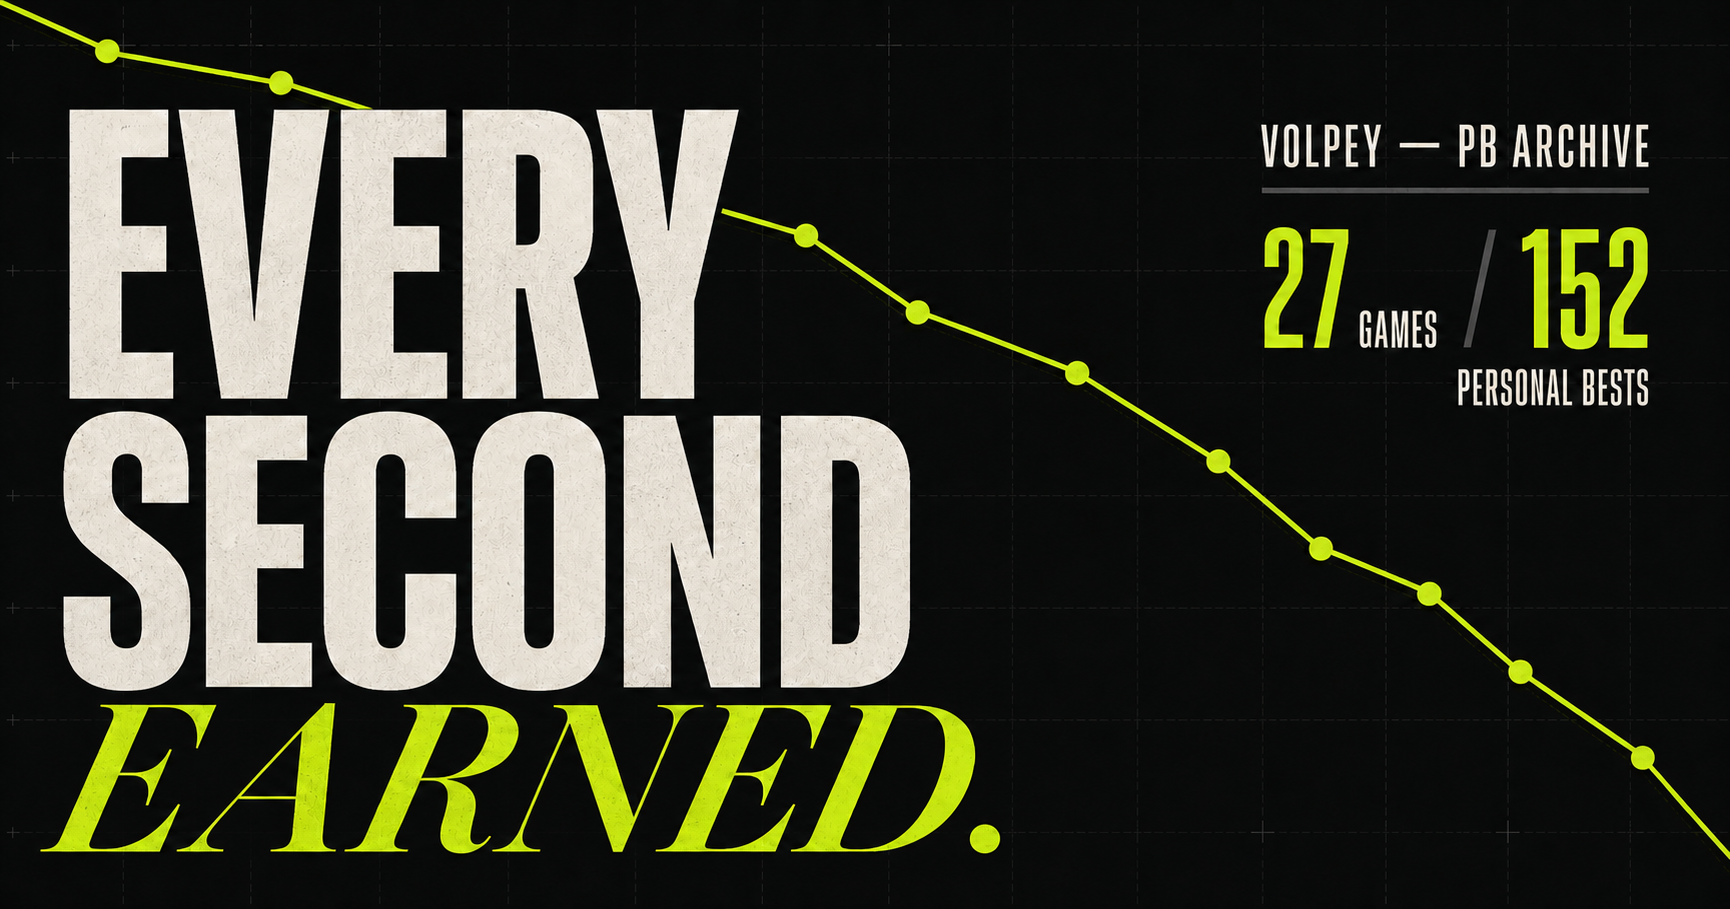
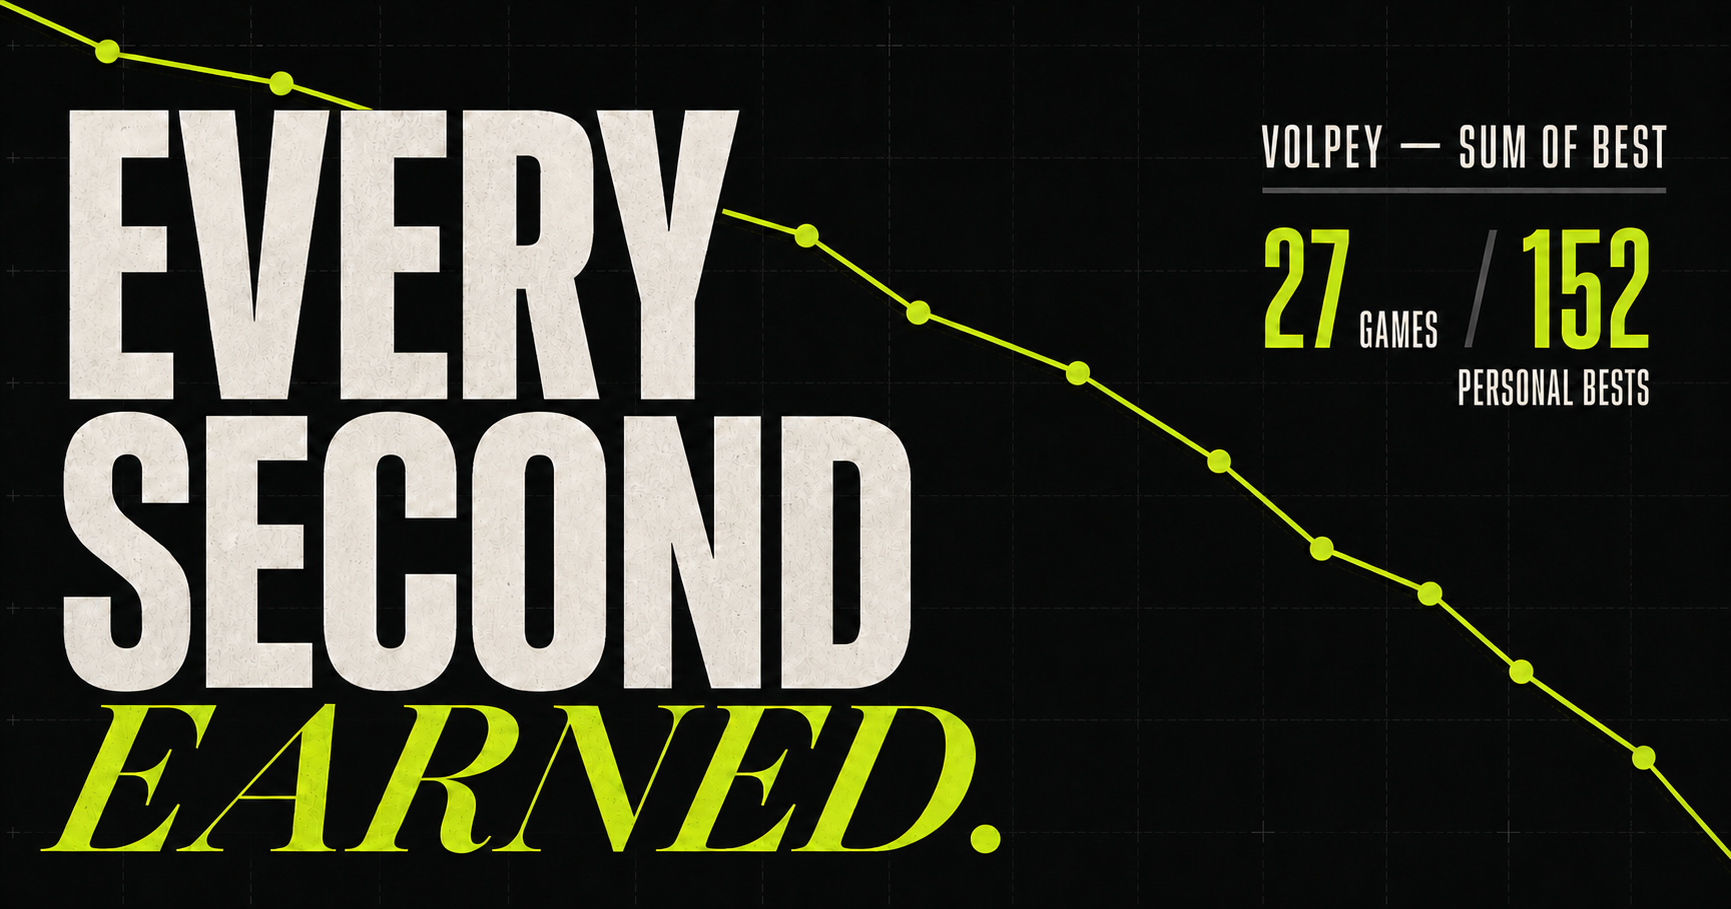
Rename project to Sum of Best

diff --git a/app/pb-history.tsx b/app/pb-history.tsx
@@ -520,9 +520,9 @@ function LevelCollection({
       }
     }
 
-    window.addEventListener("pbarchive:select-run", selectRunHistory);
+    window.addEventListener("sumofbest:select-run", selectRunHistory);
     return () =>
-      window.removeEventListener("pbarchive:select-run", selectRunHistory);
+      window.removeEventListener("sumofbest:select-run", selectRunHistory);
   }, [histories]);
 
   useEffect(() => {
@@ -730,7 +730,7 @@ export function SpeedrunPassport({
       }}
     >
       <div className="passport-book-topline">
-        <span>PB ARCHIVE · SPEEDRUN PASSPORT</span>
+        <span>SUM OF BEST · SPEEDRUN PASSPORT</span>
         <b>{owner.toUpperCase()}</b>
       </div>
 
@@ -906,7 +906,7 @@ function GameHeading({
       </span>
       <div className="game-heading-copy">
         <div className="game-heading-meta">
-          <span>PB ARCHIVE</span>
+          <span>SUM OF BEST</span>
           <i aria-hidden="true" />
           <span>
             {game.histories.length} CATEGOR
@@ -1327,7 +1327,7 @@ function ArchiveOverview({ histories }: { histories: History[] }) {
 
     window.location.assign(`#${historyAnchor(history)}`);
     window.dispatchEvent(
-      new CustomEvent("pbarchive:select-run", {
+      new CustomEvent("sumofbest:select-run", {
         detail: { historyId, runId },
       }),
     );
@@ -1790,7 +1790,7 @@ export default function PBHistory({ data }: { data: SiteData }) {
             role="navigation"
             aria-label="Breadcrumb"
           >
-            <a href="/">PB ARCHIVE</a>
+            <a href="/">SUM OF BEST</a>
             <span aria-hidden="true">/</span>
             <a className="accent-name" href="#top">
               {data.profile.name.toUpperCase()}
@@ -1829,7 +1829,7 @@ export default function PBHistory({ data }: { data: SiteData }) {
           <h1 className={`hero-title-${heroTitleMode}`}>
             <span className="accent-name">{data.profile.name}’s</span>{" "}
             {heroTitleMode === "long" && <br />}
-            PB Archive
+            Sum of Best
           </h1>
           <p className="hero-lede">
             A complete history of {data.profile.name}’s speedruns.
@@ -1911,7 +1911,7 @@ export default function PBHistory({ data }: { data: SiteData }) {
       </div>
 
       <footer>
-        <span>PB / ARCHIVE</span>
+        <span>SUM OF BEST / ARCHIVE</span>
         <p>
           Data sourced from speedrun.com · Includes verified obsolete runs ·
           Updated {longDate(data.generatedAt.slice(0, 10))}

diff --git a/app/layout.tsx b/app/layout.tsx
@@ -12,13 +12,15 @@ export async function generateMetadata(): Promise<Metadata> {
     requestHeaders.get("x-forwarded-proto") ??
     (host.startsWith("localhost") ? "http" : "https");
   const image = `${protocol}://${host}/og-v2.png`;
-  const title = "PB Archive — Your Speedrun History";
+  const title = "Sum of Best — Your Speedrun History";
   const description =
     "Turn a speedrun.com profile into a playable history of personal bests, including obsolete runs.";
 
   return {
+    metadataBase: new URL("https://sumof.best"),
     title,
     description,
+    alternates: { canonical: "/" },
     icons: {
       icon: "/favicon.svg",
       shortcut: "/favicon.svg",
@@ -27,7 +29,9 @@ export async function generateMetadata(): Promise<Metadata> {
       title,
       description,
       type: "website",
-      images: [{ url: image, width: 1728, height: 904, alt: title }],
+      url: "https://sumof.best",
+      siteName: "Sum of Best",
+      images: [{ url: image, width: 1731, height: 909, alt: title }],
     },
     twitter: {
       card: "summary_large_image",

diff --git a/app/pb-feed.tsx b/app/pb-feed.tsx
@@ -203,7 +203,7 @@ export default function PBFeed({
           <a
             className="brand-avatar-link"
             href={archivePath}
-            aria-label={`${data.profile.name}'s PB archive`}
+            aria-label={`${data.profile.name}'s Sum of Best archive`}
           >
             {profileAvatar && !avatarFailed ? (
               <img
@@ -225,7 +225,7 @@ export default function PBFeed({
             role="navigation"
             aria-label="Breadcrumb"
           >
-            <a href="/">PB ARCHIVE</a>
+            <a href="/">SUM OF BEST</a>
             <span aria-hidden="true">/</span>
             <a className="accent-name" href={archivePath}>
               {data.profile.name.toUpperCase()}
@@ -295,7 +295,7 @@ export default function PBFeed({
       </section>
 
       <footer className="feed-footer">
-        <span>PB / ARCHIVE</span>
+        <span>SUM OF BEST / ARCHIVE</span>
         <p>Verified runs sourced from speedrun.com</p>
         <a href={archivePath}>EXPLORE THE ARCHIVE →</a>
       </footer>

diff --git a/app/passport-viewer.tsx b/app/passport-viewer.tsx
@@ -53,7 +53,7 @@ export default function PassportViewer({
           embedded
         />
         <footer>
-          <span>PB ARCHIVE · SPEEDRUN PASSPORT</span>
+          <span>SUM OF BEST · SPEEDRUN PASSPORT</span>
           <a href={passportPath} target="_blank" rel="noreferrer">
             OPEN PASSPORT ↗
           </a>
@@ -86,7 +86,7 @@ export default function PassportViewer({
             role="navigation"
             aria-label="Breadcrumb"
           >
-            <a href="/">PB ARCHIVE</a>
+            <a href="/">SUM OF BEST</a>
             <span aria-hidden="true">/</span>
             <a className="accent-name" href={archivePath}>
               {data.profile.name.toUpperCase()}
@@ -141,7 +141,7 @@ export default function PassportViewer({
       </section>
 
       <footer>
-        <span>PB / PASSPORT</span>
+        <span>SUM OF BEST / PASSPORT</span>
         <p>{data.stats.games} game stamps from {data.profile.name}’s archive</p>
         <a href={archivePath}>BACK TO ARCHIVE ↑</a>
       </footer>

diff --git a/app/embed-viewer.tsx b/app/embed-viewer.tsx
@@ -125,7 +125,7 @@ export default function EmbedViewer({
       <header className="embed-header">
         <div>
           <span className="embed-kicker">
-            <span className="accent-name">@{profile.name}</span> / PB ARCHIVE
+            <span className="accent-name">@{profile.name}</span> / SUM OF BEST
           </span>
           <h1>{history.gameName}</h1>
           <p>{title}</p>
@@ -194,7 +194,7 @@ export default function EmbedViewer({
         >
           VIEW FULL ARCHIVE ↗
         </a>
-        <span>PBARCHIVE.GG</span>
+        <span>SUMOF.BEST</span>
       </footer>
     </main>
   );

diff --git a/app/landing-page.tsx b/app/landing-page.tsx
@@ -60,9 +60,9 @@ export default function LandingPage() {
   return (
     <main className="landing">
       <header className="landing-header">
-        <a className="brand" href="/" aria-label="PB Archive home">
-          <span className="brand-mark">PB</span>
-          <span>PB ARCHIVE</span>
+        <a className="brand" href="/" aria-label="Sum of Best home">
+          <span className="brand-mark">S/B</span>
+          <span>SUM OF BEST</span>
         </a>
       </header>
 

diff --git a/vite.config.ts b/vite.config.ts
@@ -18,7 +18,7 @@ const localBindingConfig = {
     ? [
         {
           binding: d1,
-          database_name: "pbarchive-d1",
+          database_name: "sumof-best-d1",
           database_id: SITE_CREATOR_PLACEHOLDER_DATABASE_ID,
         },
       ]
@@ -27,7 +27,7 @@ const localBindingConfig = {
     ? [
         {
           binding: r2,
-          bucket_name: "pbarchive-r2",
+          bucket_name: "sumof-best-r2",
         },
       ]
     : [],

diff --git a/app/[username]/passport/page.tsx b/app/[username]/passport/page.tsx
@@ -15,7 +15,7 @@ export async function generateMetadata({
   const { username } = await params;
   const name = decodeURIComponent(username);
   return {
-    title: `${name}'s Speedrun Passport — PB Archive`,
+    title: `${name}'s Speedrun Passport — Sum of Best`,
     description: `A shareable game-by-game passport through ${name}'s speedrun personal best history.`,
   };
 }

diff --git a/app/speedrun-archive.ts b/app/speedrun-archive.ts
@@ -3,7 +3,7 @@ import type { History, SiteData } from "./pb-history";
 const API = "https://www.speedrun.com/api/v1";
 const requestHeaders = {
   Accept: "application/json",
-  "User-Agent": "PBArchive/0.1 (live archive preview)",
+  "User-Agent": "SumOfBest/0.1 (live archive preview; https://sumof.best)",
 };
 
 type ApiRecord = Record<string, any>;

diff --git a/app/[username]/feed/page.tsx b/app/[username]/feed/page.tsx
@@ -15,7 +15,7 @@ export async function generateMetadata({
   const { username } = await params;
   const name = decodeURIComponent(username);
   return {
-    title: `${name}'s PB Feed — PB Archive`,
+    title: `${name}'s PB Feed — Sum of Best`,
     description: `The latest speedrun personal bests from ${name}, newest first.`,
   };
 }

diff --git a/app/api/lookup/route.ts b/app/api/lookup/route.ts
@@ -39,7 +39,7 @@ export async function GET(request: Request) {
         cache: "no-store",
         headers: {
           Accept: "application/json",
-          "User-Agent": "PBArchive/0.1 (username lookup)",
+          "User-Agent": "SumOfBest/0.1 (username lookup; https://sumof.best)",
         },
       },
     );

diff --git a/worker/index.ts b/worker/index.ts
@@ -1,4 +1,4 @@
-/** Cloudflare Worker entry point for PB Archive. */
+/** Cloudflare Worker entry point for Sum of Best. */
 import { handleImageOptimization, DEFAULT_DEVICE_SIZES, DEFAULT_IMAGE_SIZES } from "vinext/server/image-optimization";
 import handler from "vinext/server/app-router-entry";
 
